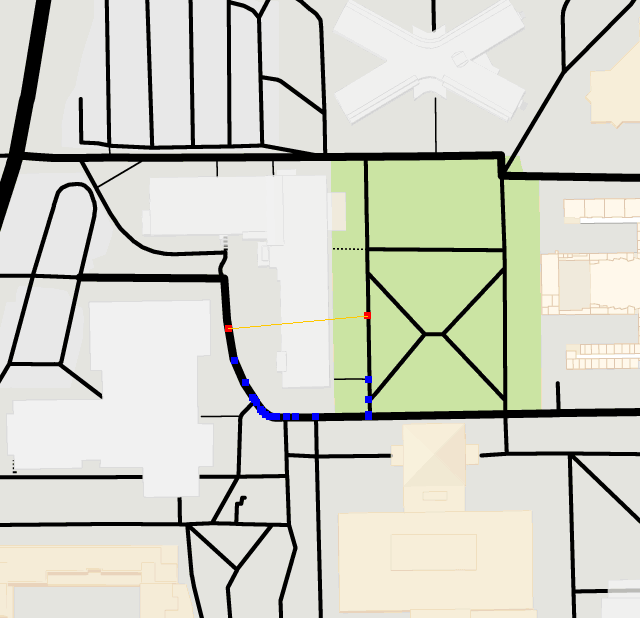
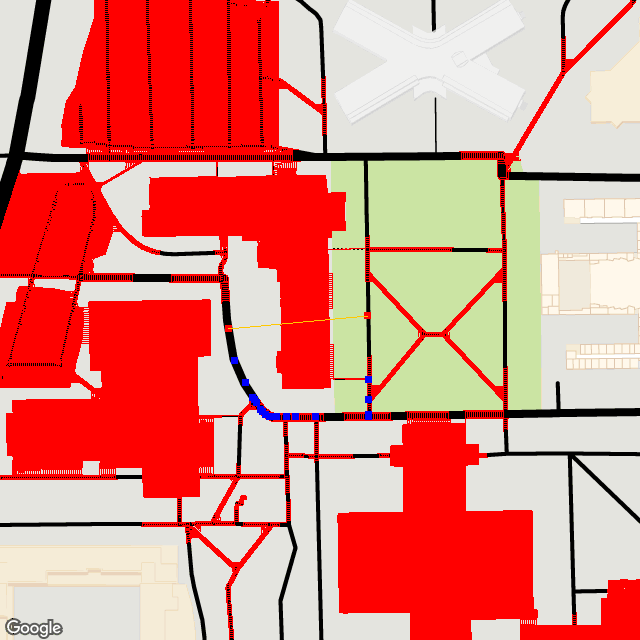
initial color detection working

diff --git a/src/generic/ImageTools.java b/src/generic/ImageTools.java
@@ -41,6 +41,9 @@ public class ImageTools {
 		int x2 = (int) endPnt.x;
 		int y2 = (int) endPnt.y;
 
+		int rgbEnd = img.getRGB(x2, y2);
+		System.out.println(rgbEnd);
+
 		int cx, cy, ix, iy, dx, dy, ddx = x2 - x1, ddy = y2 - y1;
 		PathConstituents path = new PathConstituents(false, false, false, false, 0);
 		// getNumWhitePixles(x2, y2, img);
@@ -54,7 +57,7 @@ public class ImageTools {
 					rgb = img.getRGB(x1, cy++);
 					if (rgb == -65536) {
 						path.building = true;
-					} else if (rgb == -3479901) {
+					} else if (rgb == -3414877) {
 						path.grass = true;
 					}
 				}
@@ -68,7 +71,7 @@ public class ImageTools {
 					rgb = img.getRGB(x1, cy++);
 					if (rgb == -65536) {
 						path.building = true;
-					} else if (rgb == -3479901) {
+					} else if (rgb == -3414877) {
 						path.grass = true;
 					}
 				}
@@ -85,7 +88,7 @@ public class ImageTools {
 					rgb = img.getRGB(cx, y1);
 					if (rgb == -65536) {
 						path.building = true;
-					} else if (rgb == -3479901) {
+					} else if (rgb == -3414877) {
 						path.grass = true;
 					}
 				}
@@ -99,7 +102,7 @@ public class ImageTools {
 					rgb = img.getRGB(cx, y1);
 					if (rgb == -65536) {
 						path.building = true;
-					} else if (rgb == -3479901) {
+					} else if (rgb == -3414877) {
 						path.grass = true;
 					}
 				}
@@ -148,7 +151,7 @@ public class ImageTools {
 					rgb = img.getRGB(cx, cy);
 					if (rgb == -65536) {
 						path.building = true;
-					} else if (rgb == -3479901) {
+					} else if (rgb == -3414877) {
 						path.grass = true;
 					}
 					// Tools.setImageRGB(img, cx, cy, lineColor);

diff --git a/tests/server/GraphTests.java b/tests/server/GraphTests.java
@@ -14,7 +14,9 @@ import org.junit.Test;
 import generic.Config;
 import generic.Graph;
 import generic.GraphTools;
+import generic.ImageTools;
 import generic.Node;
+import generic.PathConstituents;
 import generic.Tools;
 import generic.UserPrefs;
 import googlemaps.LatLng;
@@ -209,15 +211,22 @@ public class GraphTests {
 		Graph g = new Graph(null, null, nodes);
 		g.setDistancesFromNodes();
 		g.setElevationsFromNodes();
+		Node startNode = g.getNodes().get(g.getStartIndex());
+		Node endNode = g.getNodes().get(g.getEndIndex());
 
 		List<Integer> path = GraphTools.dijkstra(g.getStartIndex(), g, g.getEndIndex());
 		List<Node> nodesToDraw = g.getNodesFromPath(path);
 
-		GraphTools.DrawLines(img, nodesToDraw, Color.BLUE, 3, southwest, northeast, Color.ORANGE, g);
+		GraphTools.DrawLines(filled, nodesToDraw, Color.BLUE, 3, southwest, northeast, Color.ORANGE, g);
 
-		img = Tools.ClipLogo(img);
+		PathConstituents pc = ImageTools.analyzeImage(filled, startNode, endNode);
+		assert pc.building == true;
+		assert pc.grass == true;
+		assert pc.parkingLot == false;
+		assert pc.wilderness == false;
+		img = Tools.ClipLogo(filled);
 
-		Tools.WriteImage(img, "testImages/analyzeTest1.png");
+		Tools.WriteImage(filled, "testImages/analyzeTest1.png");
 	}
 
 }
